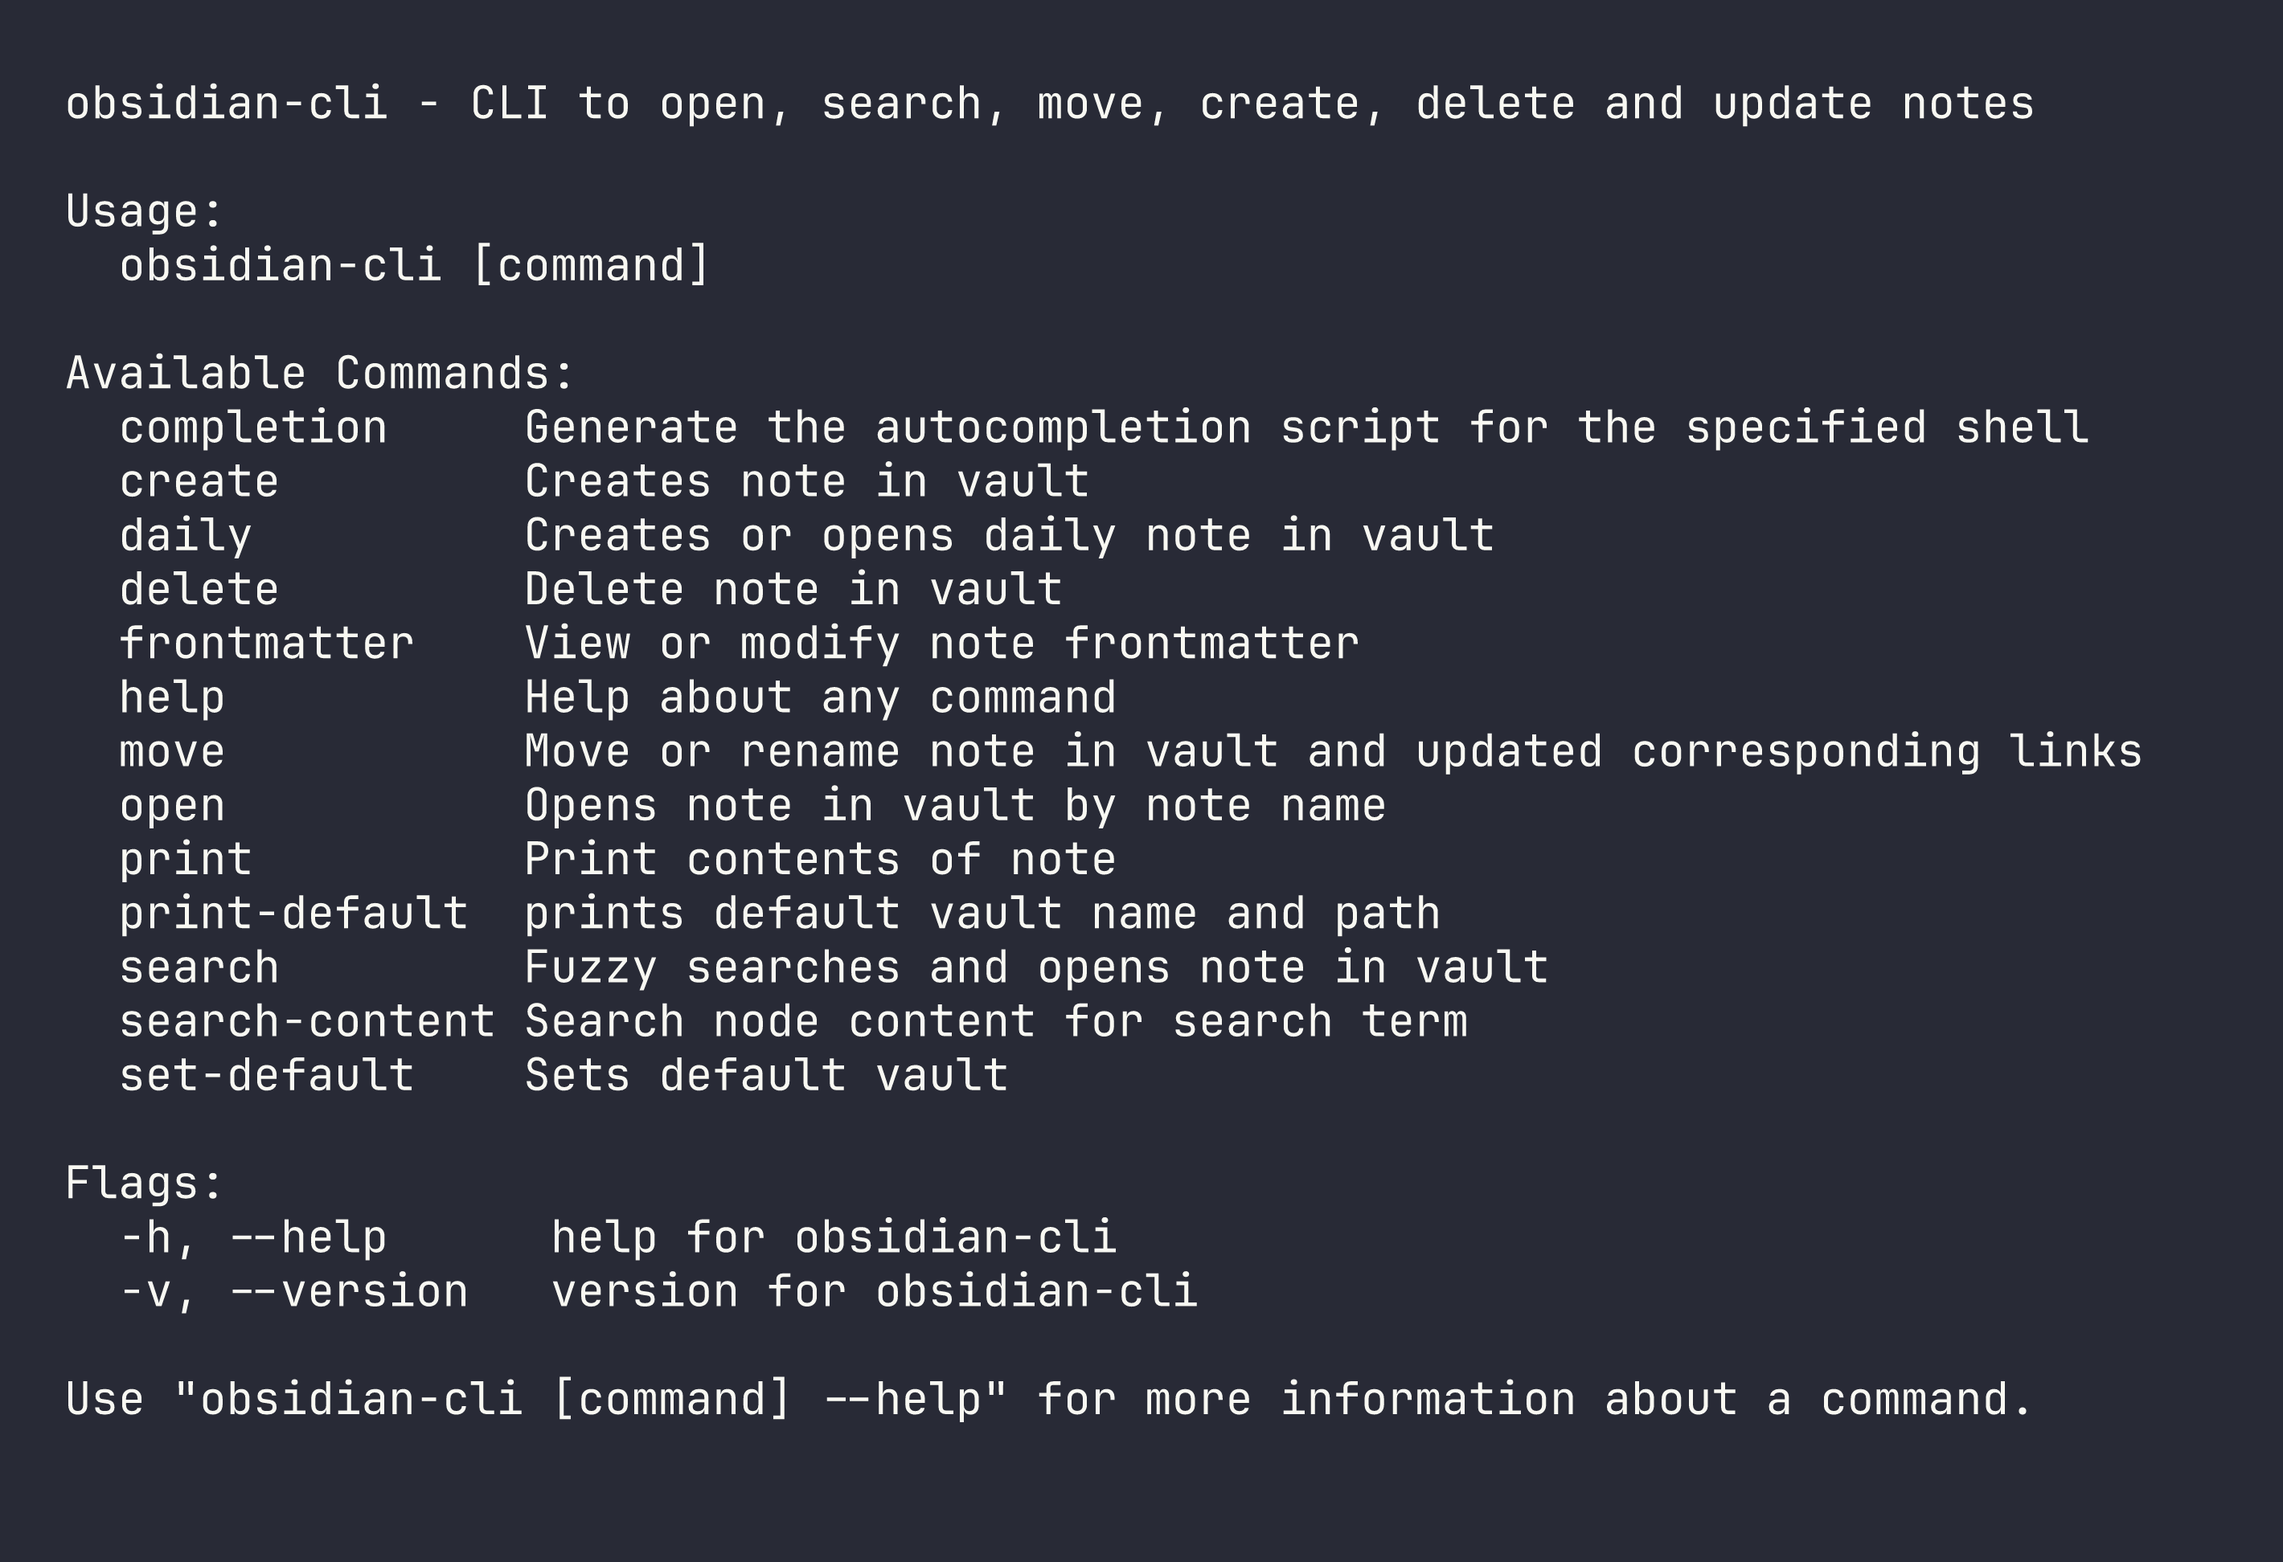
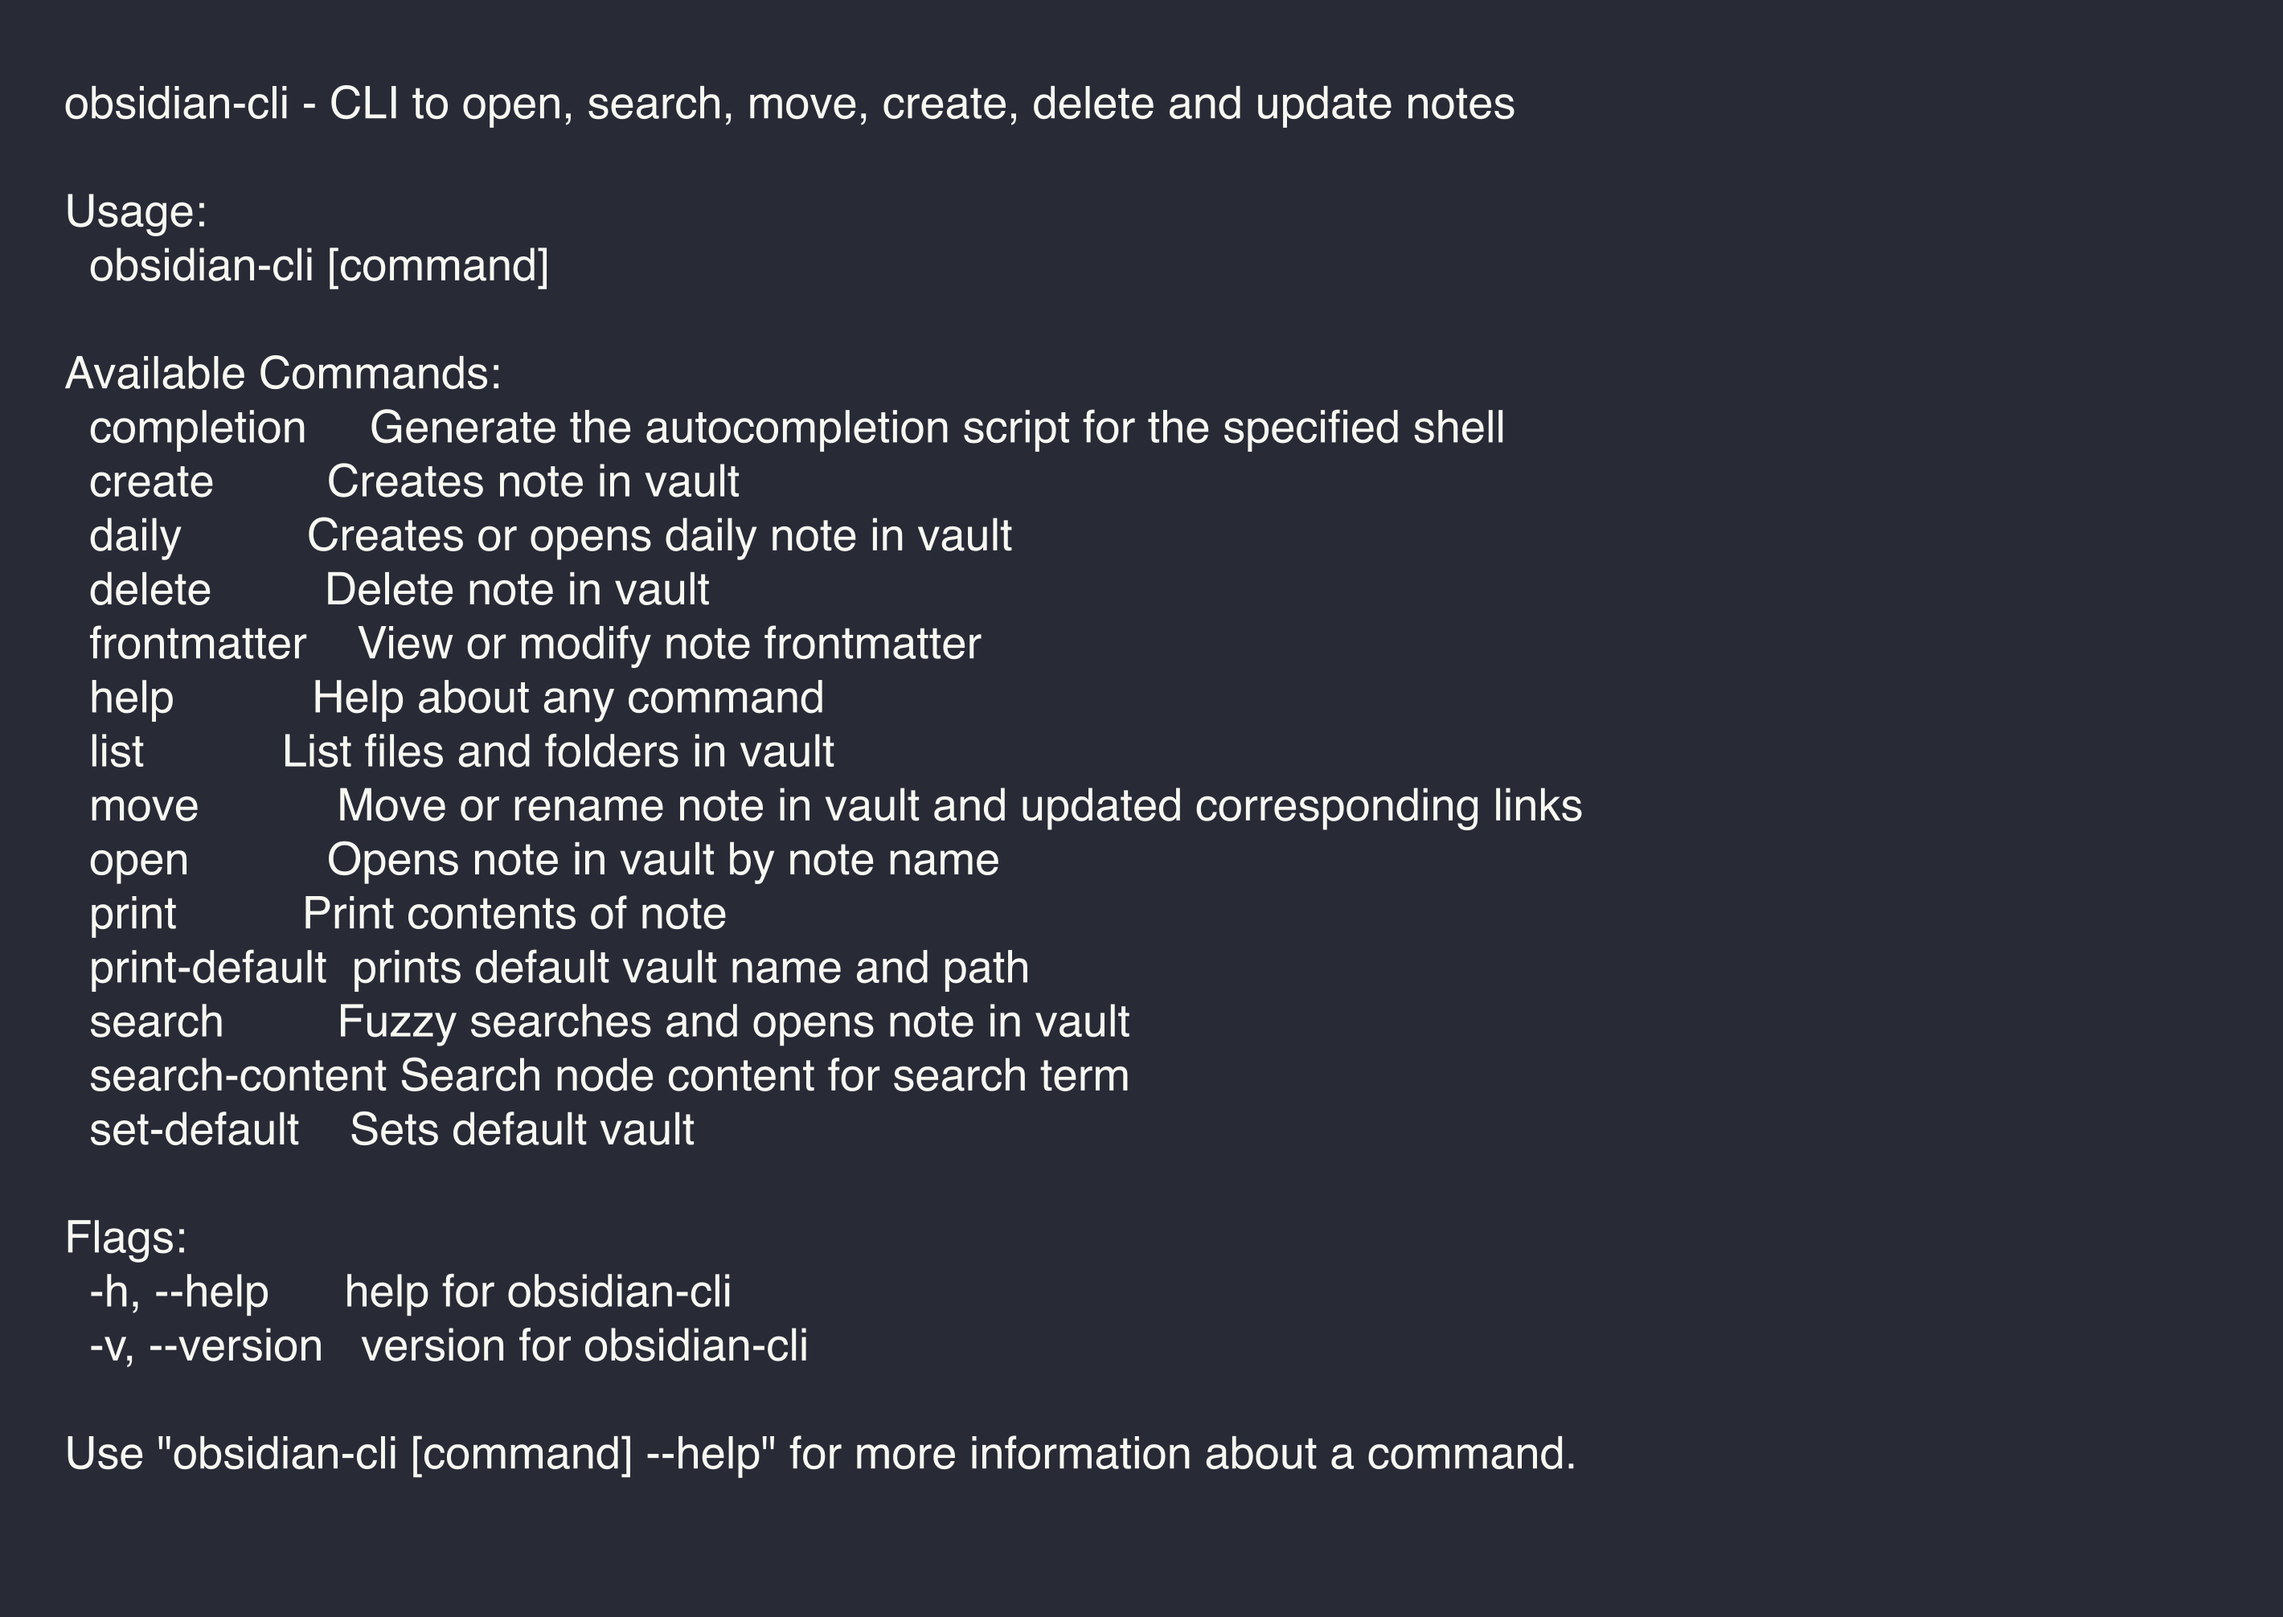
Refactor ListEntries function and add new list.go
- Simplified ListEntries by delegating to obsidian.ListEntries.
- Removed unnecessary error handling and directory checks.
- Added new list.go file to encapsulate list-related functionality.
- Updated documentation images for usage and output.

diff --git a/pkg/actions/list.go b/pkg/actions/list.go
@@ -1,11 +1,6 @@
 package actions
 
 import (
-	"errors"
-	"os"
-	"sort"
-	"strings"
-
 	"github.com/Yakitrak/obsidian-cli/pkg/obsidian"
 )
 
@@ -24,45 +19,5 @@ func ListEntries(vault obsidian.VaultManager, params ListParams) ([]string, erro
 		return nil, err
 	}
 
-	targetPath := vaultPath
-	if strings.TrimSpace(params.Path) != "" {
-		validatedPath, err := obsidian.ValidatePath(vaultPath, params.Path)
-		if err != nil {
-			return nil, err
-		}
-		targetPath = validatedPath
-	}
-
-	info, err := os.Stat(targetPath)
-	if err != nil {
-		return nil, errors.New(obsidian.VaultAccessError)
-	}
-	if !info.IsDir() {
-		return nil, errors.New(obsidian.VaultAccessError)
-	}
-
-	entries, err := os.ReadDir(targetPath)
-	if err != nil {
-		return nil, errors.New(obsidian.VaultReadError)
-	}
-
-	dirs := make([]string, 0, len(entries))
-	files := make([]string, 0, len(entries))
-
-	for _, entry := range entries {
-		name := entry.Name()
-		if strings.HasPrefix(name, ".") {
-			continue
-		}
-		if entry.IsDir() {
-			dirs = append(dirs, name+"/")
-			continue
-		}
-		files = append(files, name)
-	}
-
-	sort.Strings(dirs)
-	sort.Strings(files)
-
-	return append(dirs, files...), nil
+	return obsidian.ListEntries(vaultPath, params.Path)
 }

diff --git a/pkg/obsidian/list.go b/pkg/obsidian/list.go
@@ -1,0 +1,52 @@
+package obsidian
+
+import (
+	"errors"
+	"os"
+	"sort"
+	"strings"
+)
+
+func ListEntries(vaultPath, relativePath string) ([]string, error) {
+	targetPath := vaultPath
+	if strings.TrimSpace(relativePath) != "" {
+		validatedPath, err := ValidatePath(vaultPath, relativePath)
+		if err != nil {
+			return nil, err
+		}
+		targetPath = validatedPath
+	}
+
+	info, err := os.Stat(targetPath)
+	if err != nil {
+		return nil, errors.New(VaultAccessError)
+	}
+	if !info.IsDir() {
+		return nil, errors.New(VaultAccessError)
+	}
+
+	entries, err := os.ReadDir(targetPath)
+	if err != nil {
+		return nil, errors.New(VaultReadError)
+	}
+
+	dirs := make([]string, 0, len(entries))
+	files := make([]string, 0, len(entries))
+
+	for _, entry := range entries {
+		name := entry.Name()
+		if strings.HasPrefix(name, ".") {
+			continue
+		}
+		if entry.IsDir() {
+			dirs = append(dirs, name+"/")
+			continue
+		}
+		files = append(files, name)
+	}
+
+	sort.Strings(dirs)
+	sort.Strings(files)
+
+	return append(dirs, files...), nil
+}
